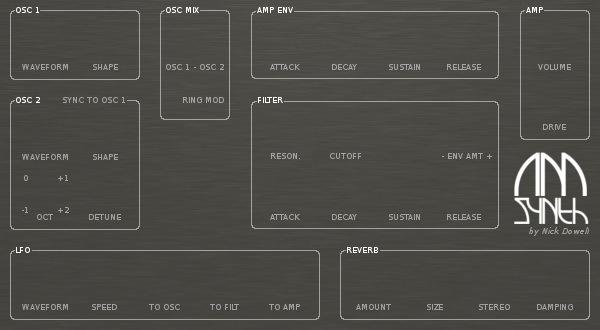
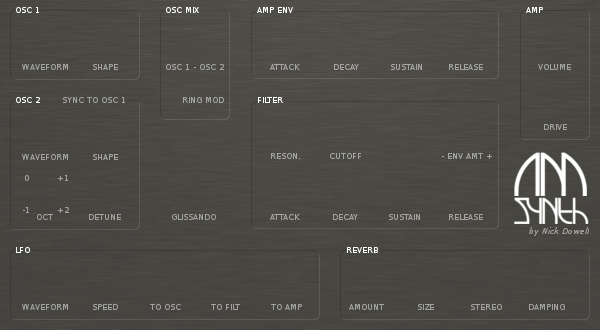
implement glissando

diff --git a/src/VoiceBoard/VoiceBoard.cc b/src/VoiceBoard/VoiceBoard.cc
@@ -22,7 +22,6 @@ static VoiceBoardProcessMemory<VoiceBoard::kMaxProcessBufferSize> s_processMem;
 
 VoiceBoard::VoiceBoard():
 	mKeyVelocity	(1.0)
-,	mKeyPitch		(440.0)
 ,	mPitchBend		(1.0)
 ,	mLFO1Freq		(0.0)
 ,	mFreqModAmount	(0.0)
@@ -103,15 +102,18 @@ VoiceBoard::ProcessSamplesMix	(float *buffer, int numSamples, float vol)
 	float *lfo1buf = s_processMem.lfo_osc_1;
 	lfo1.ProcessSamples (lfo1buf, numSamples, mLFO1Freq, 0);
 
-	float osc1freq = mPitchBend*mKeyPitch * ( mFreqModAmount*(lfo1buf[0]+1.0f) + 1.0f - mFreqModAmount );
+	const float frequency = mFrequency.nextValue();
+	for (int i=1; i<numSamples; i++) { mFrequency.nextValue(); }
+
+	float osc1freq = mPitchBend * frequency * ( mFreqModAmount*(lfo1buf[0]+1.0f) + 1.0f - mFreqModAmount );
 	float osc1pw = mOsc1PulseWidth;
 
 	float osc2freq = osc1freq * mOsc2Detune * mOsc2Octave;
 	float osc2pw = mOsc2PulseWidth;
 
 	float env_f = *filter_env.getNFData (numSamples);
-	float cutoff = ( mKeyPitch * mKeyVelocity * mFilterCutoff ) * ( (lfo1buf[0]*0.5f + 0.5f) * mFilterModAmt + 1-mFilterModAmt );
-	if (mFilterEnvAmt > 0.f) cutoff += (mKeyPitch * env_f * mFilterEnvAmt);
+	float cutoff = ( frequency * mKeyVelocity * mFilterCutoff ) * ( (lfo1buf[0]*0.5f + 0.5f) * mFilterModAmt + 1-mFilterModAmt );
+	if (mFilterEnvAmt > 0.f) cutoff += (frequency * env_f * mFilterEnvAmt);
 	else
 	{
 		static const float r16 = 1.f/16.f; // scale if from -16 to -1
@@ -163,6 +165,7 @@ VoiceBoard::ProcessSamplesMix	(float *buffer, int numSamples, float vol)
 void
 VoiceBoard::SetSampleRate	(int rate)
 {
+	mSampleRate = rate;
 	lfo1.SetSampleRate (rate);
 	osc1.SetSampleRate (rate);
 	osc2.SetSampleRate (rate);
@@ -202,13 +205,20 @@ VoiceBoard::reset()
 	filter.reset();
 	lfo1.reset();
 }
-void 
+
+void
 VoiceBoard::setFrequency(float frequency)
 {
-	mKeyPitch = frequency;
+	mFrequency.configure(frequency, frequency, 0);
 }
 
-void 
+void
+VoiceBoard::setFrequency(float startFrequency, float targetFrequency, float glissandoTime)
+{
+	mFrequency.configure(startFrequency, targetFrequency, glissandoTime * mSampleRate);
+}
+
+void
 VoiceBoard::setVelocity(float velocity)
 {
 	assert(velocity <= 1.0f);

diff --git a/src/VoiceAllocationUnit.cc b/src/VoiceAllocationUnit.cc
@@ -20,9 +20,11 @@ const unsigned kBufferSize = 1024;
 VoiceAllocationUnit::VoiceAllocationUnit ()
 :	mMaxVoices (0)
 ,	mActiveVoices (0)
+,	mGlissandoTime (0.0f)
 ,	sustain (0)
 ,	mMasterVol (1.0)
 ,	mPitchBendRangeSemitones(2)
+,	mLastNoteFrequency (0.0f)
 {
 	limiter = new SoftLimiter;
 	reverb = new revmodel;
@@ -70,7 +72,11 @@ VoiceAllocationUnit::HandleMidiNoteOn(int note, float velocity)
 	
 	if ((!mMaxVoices || (mActiveVoices < mMaxVoices)) && !active[note])
 	{
-		_voices[note]->setFrequency(pitch);
+		if (mLastNoteFrequency > 0.0f) {
+			_voices[note]->setFrequency(mLastNoteFrequency, pitch, mGlissandoTime);
+		} else {
+			_voices[note]->setFrequency(pitch);
+		}
 		_voices[note]->reset();
 		active[note]=1;
 		mActiveVoices++;
@@ -78,6 +84,8 @@ VoiceAllocationUnit::HandleMidiNoteOn(int note, float velocity)
 
 	_voices[note]->setVelocity(velocity);
 	_voices[note]->triggerOn();
+
+	mLastNoteFrequency = pitch;
 }
 
 void
@@ -169,6 +177,7 @@ VoiceAllocationUnit::UpdateParameter	(Param param, float value)
 	case kAmsynthParameter_ReverbWet:		reverb->setwet (value); reverb->setdry(1.0f-value); break;
 	case kAmsynthParameter_ReverbWidth:		reverb->setwidth (value);	break;
 	case kAmsynthParameter_AmpDistortion:	distortion->SetCrunch (value);	break;
+	case kAmsynthParameter_GlissandoTime: 	mGlissandoTime = value; break;
 	
 	default: for (unsigned i=0; i<_voices.size(); i++) _voices[i]->UpdateParameter (param, value); break;
 	}

diff --git a/src/Preset.cc b/src/Preset.cc
@@ -63,6 +63,7 @@ Preset::Preset			(const string name)
 	mParameters.push_back (Parameter		("reverb_width",		kAmsynthParameter_ReverbWidth,		1));
 	mParameters.push_back (Parameter		("distortion_crunch",	kAmsynthParameter_AmpDistortion,	0, 0, 0.9f));
 	mParameters.push_back (Parameter		("osc2_sync",			kAmsynthParameter_Oscillator2Sync,			0, 0, 1, 1));
+	mParameters.push_back (Parameter		("glissando_time",		kAmsynthParameter_GlissandoTime, 0.0f, 0.0f, 1.0f));
 	
 	getParameter(kAmsynthParameter_Oscillator1Waveform).setParameterValueStrings(osc_waveform_names, ARRAY_SIZE(osc_waveform_names));
 	getParameter(kAmsynthParameter_Oscillator2Waveform).setParameterValueStrings(osc_waveform_names, ARRAY_SIZE(osc_waveform_names));

diff --git a/src/VoiceBoard/Synth--.h b/src/VoiceBoard/Synth--.h
@@ -39,6 +39,39 @@
 #define MIN(a,b) (((a) < (b)) ? (a) : (b))
 #endif
 
+class Lerper
+{
+
+public:
+	
+	void configure(float startValue, float finalValue, unsigned int numSteps)
+	{
+		_start = startValue;
+		_final = finalValue;
+		_steps = numSteps;
+		if (0 < _steps) {
+			_inc = (_final - _start) / (float)_steps;
+		} else {
+			_inc = 0.0f;
+			_start = finalValue;
+		}
+		_i = 0;
+	}
+
+	inline float nextValue()
+	{
+		float y = _start + _i * (float)_inc;
+		_i = MIN(_i + 1, _steps);
+		return y;
+	}
+
+private:
+
+	float _start, _final, _inc;
+	unsigned int _steps, _i;
+
+};
+
 struct IIRFilterFirstOrder
 {
 	enum Mode

diff --git a/src/VoiceBoard/VoiceBoard.h b/src/VoiceBoard/VoiceBoard.h
@@ -31,8 +31,9 @@ public:
 	void	triggerOn		();
 	void	triggerOff		();
 	void	setVelocity		(float velocity);
-	void	setFrequency		(float frequency);
-	void	SetPitchBend		(float);
+	void	setFrequency	(float frequency);
+	void	setFrequency	(float startFrequency, float targetFrequency, float glissandoTime);
+	void	SetPitchBend	(float);
 	void	reset			();
 
 	void	UpdateParameter		(Param, float);
@@ -43,8 +44,9 @@ public:
 
 private:
 
+	Lerper			mFrequency;
+	float			mSampleRate;
 	float			mKeyVelocity;
-	float			mKeyPitch;
 	float			mPitchBend;
 	
 	// modulation section

diff --git a/src/VoiceAllocationUnit.h b/src/VoiceAllocationUnit.h
@@ -50,6 +50,7 @@ private:
 	int		mMaxVoices;
 	int 	mActiveVoices;
 
+	float	mGlissandoTime;
 	char	keyPressed[128], sustain;
 	bool	active[128];
 	std::vector<VoiceBoard*>	_voices;
@@ -62,6 +63,7 @@ private:
 
 	float	mMasterVol;
 	float	mPitchBendRangeSemitones;
+	float	mLastNoteFrequency;
 
 	TuningMap	tuningMap;
 };

diff --git a/src/controls.h b/src/controls.h
@@ -46,6 +46,8 @@ enum Param
 	kAmsynthParameter_AmpDistortion            = 29,
 	
 	kAmsynthParameter_Oscillator2Sync          = 30,
+
+	kAmsynthParameter_GlissandoTime            = 31,
 	
 	kAmsynthParameterCount
 };
